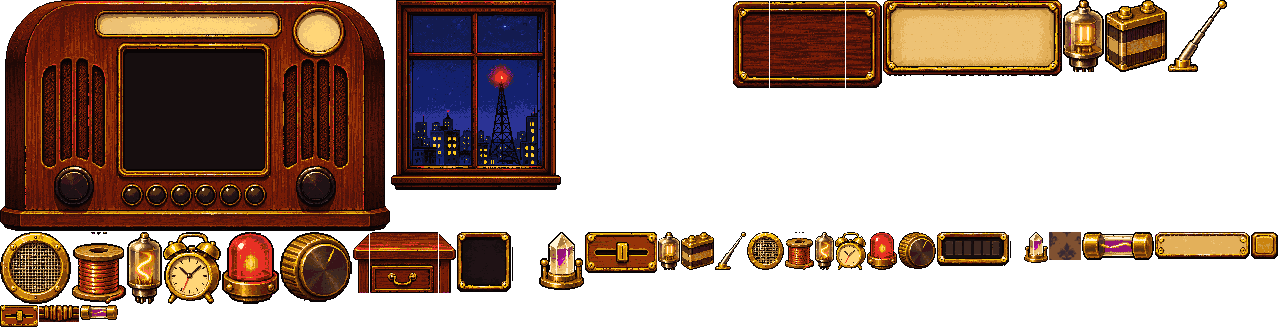
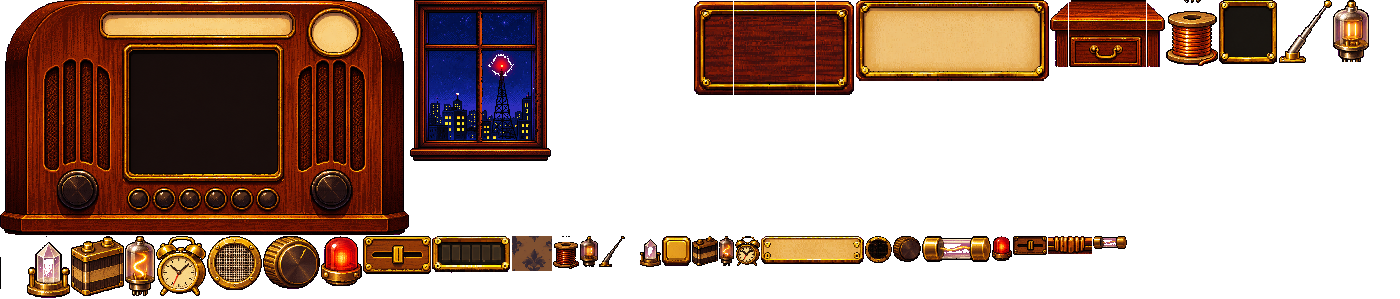
Art at its true pixel size (grid-fixed sources, no resizing), world 712x400, smooth darker lighting, clearer value dots
Claude-Session: https://claude.ai/code/session_01GgKVUEWXsHRvrCRcmJ6uSs

diff --git a/index.html b/index.html
@@ -168,9 +168,9 @@ body.padmode #screenWrap,body.inapp #screenWrap{position:fixed;top:0;right:0;bot
 const $ = (id) => document.getElementById(id);
 const DICT = new Set((window.LEX_WORDS || "").split(" "));
 const cv = $("screen"), ctx = cv.getContext("2d");          // the screen: 2 fine pixels per world pixel
-const H = 360, BAR_H = 101, SCENE_H = H - BAR_H, FINE = 2;
-const BIN = { t: 11, b: 11, l: 13, r: 13 };                  // the bar's inner gold border: everything sits inside it
-let W = 640, TK = 1;   // TK: text scale, 1.5 when the screen is small (phones) so typed text stays readable
+const H = 400, BAR_H = 95, SCENE_H = H - BAR_H, FINE = 2;
+const BIN = { t: 12, b: 12, l: 14, r: 14 };                  // the bar's inner gold border: everything sits inside it
+let W = 712, TK = 1;   // TK: text scale, 1.5 when the screen is small (phones) so typed text stays readable
 const world = document.createElement("canvas"), wctx = world.getContext("2d");   // the room, keys and bar, in world pixels
 const over = document.createElement("canvas"), octx = over.getContext("2d");     // menus over the room, in world pixels
 
@@ -288,31 +288,32 @@ const L = {};
 function layout() {
   if (!A) return;
   const wrapEl = $("screenWrap"); const ww = wrapEl.clientWidth || 640, wh = wrapEl.clientHeight || 360;
-  const nW = Math.max(480, Math.min(854, Math.round(H * ww / wh / 2) * 2));
+  const nW = Math.max(532, Math.min(950, Math.round(H * ww / wh / 2) * 2));
   const nTK = ww / nW < 1.15 ? 1.5 : 1; if (nTK !== TK) { TK = nTK; glyphCache.clear(); ADV.ink = 12 * TK; }
   if (nW !== W || !L.ready) { W = nW; world.width = W; world.height = H; over.width = W; over.height = H; cv.width = W * FINE; cv.height = H * FINE;
     computeLayout(); buildRoom(); buildBar(); L.ready = true; }
 }
 function computeLayout() {
-  const rw = R("radio")[2], wide = W >= 587;
+  const rw = R("radio")[2], wide = W >= 650;
   L.radioX = wide ? W - rw - 21 : W - rw - 5; L.radioY = 18;
-  L.winX = wide ? Math.max(18, Math.round((L.radioX - R("window")[2]) / 2)) : L.radioX - R("window")[2] + 10; L.winY = 24;
+  L.winX = wide ? Math.max(18, Math.round((L.radioX - R("window")[2]) / 2)) : L.radioX - R("window")[2] + 10; L.winY = 46;
   const bp = P("window").beacon; L.beacon = { x: L.winX + bp[0], y: L.winY + bp[1] };
   const rp = P("radio");
   L.glass = { x: L.radioX + rp.glass0[0], y: L.radioY + rp.glass0[1], w: rp.glass1[0] - rp.glass0[0], h: rp.glass1[1] - rp.glass0[1] };
-  L.tw = 31; L.th = 25; L.gap = 4;
+  L.gap = 4; L.tw = Math.floor((L.glass.w - 10 - 3 * L.gap) / 4); L.th = Math.floor((L.glass.h - 10 - 3 * L.gap) / 4);
   L.gx = L.glass.x + Math.floor((L.glass.w - (4 * L.tw + 3 * L.gap)) / 2); L.gy = L.glass.y + Math.floor((L.glass.h - (4 * L.th + 3 * L.gap)) / 2);
   L.dial = { x: L.radioX + rp.dial0[0] + 1, y: L.radioY + rp.dial0[1] + 1, w: rp.dial1[0] - rp.dial0[0] - 2, h: rp.dial1[1] - rp.dial0[1] - 2 };
   L.meter = { x: L.radioX + rp.meter[0], y: L.radioY + rp.meter[1], r: rp.meterR[0] - rp.meter[0] };
   L.lamps = [0, 1, 2, 3, 4, 5].map(k => ({ x: L.radioX + rp["lamp" + k][0], y: L.radioY + rp["lamp" + k][1] }));
   L.knobL = { x: L.radioX + rp.knobL[0], y: L.radioY + rp.knobL[1] }; L.knobR = { x: L.radioX + rp.knobR[0], y: L.radioY + rp.knobR[1] };
-  L.sbX = L.radioX - 29; L.sbY = 237;
+  L.sbX = L.radioX - 29; L.sbY = L.radioY + R("radio")[3] - 10;
   // the bar: log | two plates | battery | part slots; one gap, all centred on the bar's middle line, inside the gold border
-  L.barY = SCENE_H; const n = W >= 627 ? 4 : W >= 560 ? 3 : 2; L.nSlots = n;
+  L.barY = SCENE_H;
   const [, , pw, ph] = R("plate"), [, , bw, bh] = R("battery"), [, , sw, sh] = R("slot");
   const GAP = 9, ix0 = BIN.l + 4, ix1 = W - BIN.r - 4, mid = (BIN.t + BAR_H - BIN.b) / 2;
+  let n = 4; while (n > 2 && ix1 - ix0 - (n * sw + (n - 1) * GAP) - pw - bw - 3 * GAP < 160) n--; L.nSlots = n;
   L.logW = ix1 - ix0 - (n * sw + (n - 1) * GAP) - pw - bw - 3 * GAP;
-  L.log = { x: ix0, y: Math.round(mid - 31), w: L.logW, h: 62 };
+  L.log = { x: ix0, y: Math.round(mid - 33), w: L.logW, h: 66 };
   L.plateX = ix0 + L.logW + GAP; L.battX = L.plateX + pw + GAP; L.slotX = L.battX + bw + GAP; L.slotStep = sw + GAP;
   L.plateY0 = Math.round(mid - ph - 4); L.plateY1 = Math.round(mid + 4); L.battY = Math.round(mid - bh / 2); L.slotY = Math.round(mid - sh / 2);
 }
@@ -331,21 +332,20 @@ function buildRoom() {
   const m = document.createElement("canvas"); m.width = W; m.height = SCENE_H; const mc = m.getContext("2d"); spr(mc, "window_glass", L.winX, L.winY);
   mc.globalCompositeOperation = "destination-out"; spr(mc, "radio", L.radioX, L.radioY);
   const md = mc.getImageData(0, 0, W, SCENE_H).data;
-  const wcx = L.winX + R("window")[2] / 2, wcy = L.winY + R("window")[3] / 2, lx = W - 13, ly = 267, K = 4 / 3;
+  const wcx = L.winX + R("window")[2] / 2, wcy = L.winY + R("window")[3] / 2, lx = W - 13, ly = SCENE_H * .87, K = H / 270;
+  // smooth light over the clean art: warm lamp low right, cool moon round the window, slightly darker edges (no palette snapping)
   for (let y = 0; y < SCENE_H; y++) for (let x = 0; x < W; x++) {
     const i = (y * W + x) * 4; let lr, lg, lb;
-    if (md[i + 3] > 0) { lr = .72; lg = .74; lb = .84; }
+    if (md[i + 3] > 0) { lr = .74; lg = .76; lb = .86; }
     else { const lamp = Math.max(0, 1 - Math.hypot((x - lx) / (330 * K), (y - ly) / (260 * K))) ** 1.6, moon = Math.max(0, 1 - Math.hypot((x - wcx) / (150 * K), (y - wcy) / (130 * K))) ** 2;
-      const v = 1 - .25 * Math.max(0, Math.min(1, Math.hypot((x - W / 2) / (W / 2), (y - H / 2) / (H / 2)) - .6));
-      lr = (.56 + lamp * 1.1 + moon * .26) * v; lg = (.54 + lamp * .84 + moon * .34) * v; lb = (.52 + lamp * .55 + moon * .56) * v; }
-    const th = (BAYER[(y & 3) * 4 + (x & 3)] / 16 - .5) * 22;
-    const r = Math.max(0, Math.min(255, d[i] * lr + th)), g = Math.max(0, Math.min(255, d[i + 1] * lg + th)), b = Math.max(0, Math.min(255, d[i + 2] * lb + th));
-    const k = (((r >> 3) * 32 + (g >> 3)) * 32 + (b >> 3)) * 3; d[i] = LUT[k]; d[i + 1] = LUT[k + 1]; d[i + 2] = LUT[k + 2]; d[i + 3] = 255; }
+      const v = 1 - .35 * Math.max(0, Math.min(1, Math.hypot((x - W / 2) / (W / 2), (y - H / 2) / (H / 2)) - .55));
+      lr = (.44 + lamp * 1.0 + moon * .22) * v; lg = (.43 + lamp * .74 + moon * .3) * v; lb = (.44 + lamp * .48 + moon * .5) * v; }
+    d[i] = Math.min(255, d[i] * lr); d[i + 1] = Math.min(255, d[i + 1] * lg); d[i + 2] = Math.min(255, d[i + 2] * lb); d[i + 3] = 255; }
   c.putImageData(img, 0, 0);
 }
 function buildBar() {
   barCv = document.createElement("canvas"); barCv.width = W; barCv.height = BAR_H; const c = barCv.getContext("2d"); c.imageSmoothingEnabled = false;
-  const SRC_H = R("bar_left")[3], TOP = 29, BOT = 29, MID = SRC_H - TOP - BOT;
+  const SRC_H = R("bar_left")[3], TOP = 31, BOT = 31, MID = SRC_H - TOP - BOT;
   const piece = (n, x, w) => { spr(c, n, x, 0, 0, 0, w, TOP); for (let y = TOP; y < BAR_H - BOT; y += MID) spr(c, n, x, y, 0, TOP, w, Math.min(MID, BAR_H - BOT - y)); spr(c, n, x, BAR_H - BOT, 0, SRC_H - BOT, w, BOT); };
   piece("bar_left", 0, R("bar_left")[2]); let x = R("bar_left")[2]; const rw = R("bar_right")[2];
   while (x < W - rw) { const mw = Math.min(R("bar_mid")[2], W - rw - x); piece("bar_mid", x, mw); x += mw; }
@@ -543,7 +543,7 @@ function drawGrid() {
     wctx.fillStyle = on ? (ok ? C.hot : C.selEdge) : C.keyEdge; wctx.fillRect(x, y, L.tw, 1); wctx.fillRect(x, y + L.th - 1, L.tw, 1); wctx.fillRect(x, y, 1, L.th); wctx.fillRect(x + L.tw - 1, y, 1, L.th);
     wctx.fillStyle = on ? C.hot : C.keyTop; wctx.fillRect(x + 1, y + 1, L.tw - 2, 1);
     if (t.hot) { wctx.fillStyle = (frame >> 3) & 1 ? C.red : C.redHot; wctx.fillRect(x - 1, y - 1, L.tw + 2, 1); wctx.fillRect(x - 1, y + L.th, L.tw + 2, 1); wctx.fillRect(x - 1, y, 1, L.th); wctx.fillRect(x + L.tw, y, 1, L.th); }
-    const v = VALUES[t.ch]; wctx.fillStyle = on ? C.ink : C.keyEdge; for (let k = 0; k < Math.min(4, Math.ceil(v / 2)); k++) wctx.fillRect(x + L.tw - 4 - k * 3, y + L.th - 4, 2, 2);
+    const v = VALUES[t.ch]; for (let k = 0; k < Math.min(4, Math.ceil(v / 2)); k++) { wctx.fillStyle = C.keyShadow; wctx.fillRect(x + L.tw - 4 - k * 3, y + L.th - 3, 2, 2); wctx.fillStyle = on ? C.ink : C.gold; wctx.fillRect(x + L.tw - 4 - k * 3, y + L.th - 4, 2, 2); }
   }
   if (KS === 0) for (let k = 1; k < S.path.length; k++) { const a = tileC(S.path[k - 1]), b = tileC(S.path[k]); line(wctx, a.x, a.y, b.x, b.y, ok ? C.hot : C.gold, 2); }
   const cand = candidate(); if (cand >= 0 && !usingButtons && KS === 0) { const p = tileXY(cand); wctx.fillStyle = C.gold; wctx.fillRect(p.x - 1, p.y - 1, L.tw + 2, 1); wctx.fillRect(p.x - 1, p.y + L.th, L.tw + 2, 1); wctx.fillRect(p.x - 1, p.y, 1, L.th); wctx.fillRect(p.x + L.tw, p.y, 1, L.th);
@@ -641,7 +641,7 @@ function drawKeyLetters() {
       ctx.fillStyle = gr; ctx.beginPath(); ctx.arc(cx, cy, r - 4, 0, 7); ctx.fill();
       if (on) { ctx.shadowColor = "#ffb347"; ctx.shadowBlur = 18; ctx.strokeStyle = "rgba(255,200,110,.9)"; ctx.lineWidth = 2; ctx.stroke(); ctx.shadowBlur = 0; }
       vtext(ch, cx, cy + 2, `${ch === "Qu" ? 22 : 28}px "Special Elite", "Courier New", monospace`, "#2a1a0e");
-      pips(cx + r - 10, cy + r - 12, v, "#7a5228");
+      pips(cx + r - 10, cy + r - 12, v, "#4a2a12");
     } else if (KS === 2) {     // glow tubes: dark glass with a fine mesh, thin orange letters burning inside
       ctx.fillStyle = "#0e0806"; rr(ctx, x + 2, y, w - 4, hh, 10); ctx.fill();
       ctx.fillStyle = "rgba(255,140,60,.07)"; for (let yy = y + 3; yy < y + hh - 2; yy += 4) for (let xx = x + 5 + ((yy >> 2) & 1) * 2; xx < x + w - 5; xx += 4) ctx.fillRect(xx, yy, 1, 1);
@@ -650,13 +650,13 @@ function drawKeyLetters() {
       ctx.lineWidth = 2.2; ctx.strokeStyle = lit; ctx.strokeText(ch, cx, cy + 2);   // thicken the filament so it reads
       ctx.strokeStyle = "rgba(255,255,255,.12)"; ctx.lineWidth = 2; ctx.beginPath(); ctx.moveTo(x + 9, y + 6); ctx.lineTo(x + 9, y + hh - 10); ctx.stroke();
       ctx.strokeStyle = on ? "rgba(255,180,90,.8)" : "rgba(120,80,50,.6)"; ctx.lineWidth = 2; rr(ctx, x + 2, y, w - 4, hh, 10); ctx.stroke();
-      pips(x + w - 10, y + hh - 9, v, on ? "#ffd0a0" : "#7a3a14");
+      pips(x + w - 10, y + hh - 9, v, on ? "#ffd0a0" : "#ffa24a");
     } else if (KS === 3) {     // neon glass: no keys, glowing letters floating in the smoked glass
       ctx.strokeStyle = on ? "rgba(255,190,110,.55)" : "rgba(255,170,90,.12)"; ctx.lineWidth = 2; rr(ctx, x + 3, y + 2, w - 6, hh - 4, 8); ctx.stroke();
       const col = on ? (ok ? "#ffffff" : "#fff1d6") : "#ffb347";
       vtext(ch, cx, cy + 2, `${ch === "Qu" ? 22 : 30}px Bungee, Impact, sans-serif`, col, on ? 26 : 14, on ? "#ffcf6a" : "#ff8a20");
       vtext(ch, cx, cy + 2, `${ch === "Qu" ? 22 : 30}px Bungee, Impact, sans-serif`, col, 0);
-      pips(x + w - 10, y + hh - 10, v, on ? "#fff1d6" : "rgba(255,170,80,.55)");
+      pips(x + w - 10, y + hh - 10, v, on ? "#fff1d6" : "#ffc070");
     } else if (KS === 4) {     // ivory tiles: chunky game tiles with engraved letters
       ctx.fillStyle = "rgba(0,0,0,.5)"; rr(ctx, x + 2, y + 4, w - 2, hh - 2, 7); ctx.fill();
       let gr = ctx.createLinearGradient(0, y, 0, y + hh); gr.addColorStop(0, on ? (ok ? "#fff2c4" : "#ffd88a") : "#f3e7c9"); gr.addColorStop(1, on ? (ok ? "#ffbf4a" : "#e9a23c") : "#cdb98f");
@@ -664,7 +664,7 @@ function drawKeyLetters() {
       ctx.strokeStyle = "rgba(255,255,255,.55)"; ctx.lineWidth = 2; ctx.beginPath(); ctx.moveTo(x + 7, y + 2); ctx.lineTo(x + w - 9, y + 2); ctx.stroke();
       if (on) { ctx.shadowColor = "#ffb347"; ctx.shadowBlur = 20; ctx.strokeStyle = "rgba(255,190,90,.9)"; rr(ctx, x + 1, y, w - 3, hh - 3, 7); ctx.stroke(); ctx.shadowBlur = 0; }
       vtext(ch, cx, cy + 1, `${ch === "Qu" ? 20 : 26}px Bungee, Impact, sans-serif`, "rgba(255,255,255,.6)"); vtext(ch, cx, cy - 1, `${ch === "Qu" ? 20 : 26}px Bungee, Impact, sans-serif`, "#3a2010");
-      pips(x + w - 11, y + hh - 11, v, "#a8452a");
+      pips(x + w - 11, y + hh - 11, v, "#8a2410");
     } else if (KS === 5) {     // brass keys: polished brass plates with stamped letters
       ctx.fillStyle = "rgba(0,0,0,.5)"; rr(ctx, x + 2, y + 4, w - 2, hh - 2, 5); ctx.fill();
       let gr = ctx.createLinearGradient(x, y, x + w, y + hh); gr.addColorStop(0, on ? "#fff0b0" : "#f0cf78"); gr.addColorStop(.5, on ? "#ffc848" : "#c69a42"); gr.addColorStop(1, on ? "#d48a20" : "#8a5f22");
@@ -672,7 +672,7 @@ function drawKeyLetters() {
       ctx.strokeStyle = "rgba(60,36,12,.7)"; ctx.lineWidth = 2; rr(ctx, x + 5, y + 4, w - 11, hh - 11, 3); ctx.stroke();
       if (on) { ctx.shadowColor = "#ffd27a"; ctx.shadowBlur = 22; ctx.strokeStyle = ok ? "#fff6dc" : "#ffd27a"; rr(ctx, x + 1, y, w - 3, hh - 3, 5); ctx.stroke(); ctx.shadowBlur = 0; }
       vtext(ch, cx, cy + 1, `${ch === "Qu" ? 20 : 27}px Limelight, Georgia, serif`, "rgba(255,240,200,.7)"); vtext(ch, cx, cy - 1, `${ch === "Qu" ? 20 : 27}px Limelight, Georgia, serif`, "#3a2410");
-      pips(x + w - 11, y + hh - 12, v, "#5a3a14");
+      pips(x + w - 11, y + hh - 12, v, "#2e1a08");
     }
     if (t.hot) { ctx.strokeStyle = (frame >> 3) & 1 ? "#ff3a2e" : "#ff8060"; ctx.lineWidth = 3; ctx.shadowColor = "#ff3a2e"; ctx.shadowBlur = 14; rr(ctx, x - 1, y - 2, w + 1, hh + 2, 9); ctx.stroke(); ctx.shadowBlur = 0; }
     if (hv) { ctx.strokeStyle = "rgba(255,230,170,.85)"; ctx.lineWidth = 2; ctx.setLineDash([6, 4]); rr(ctx, x - 2, y - 3, w + 3, hh + 4, 9); ctx.stroke(); ctx.setLineDash([]); }

diff --git a/art/pixel/build.py b/art/pixel/build.py
@@ -1,7 +1,12 @@
-"""Builds every pixel-art sprite from the ChatGPT sources in art/pixel/src/.
-1. Master palette (64 colours) from the look target and all sources, so every layer shares the same colours.
-2. Each sprite: key out magenta, crop, shrink to its native size (the game's 480x270 world), hard 1-bit alpha, snap to the palette.
-3. sprites.json: sizes plus marked points (like the tower beacon) in native pixels.
+"""Builds every pixel-art sprite for the game from the art in art/pixel/src/.
+
+ChatGPT's "pixel art" is a big image of fake pixels of uneven size. Each source was run once through a pixel-grid fixer, which
+recovered its real pixel grid; that result is saved next to it as NAME_fixed.png. Sprites are cut from the fixed images at exactly
+their own pixel size: never resized, never forced into a small palette, so every pixel stays clean. (The interface kit came back
+with tall pixels, so its rows are evened out to square pixels first.)
+
+Crops and points below are written in the ORIGINAL source's pixels (easy to measure on the big image) and converted to the fixed
+image's pixels. Outputs: atlas.png + atlas.json (palette for interface colours, sprite rectangles, marked points).
 Run from the repo root: python3 -I art/pixel/build.py"""
 import json, sys
 import numpy as np
@@ -11,125 +16,93 @@ import pix
 
 SRC = "art/pixel/src/"
 OUT = "art/pixel/"
-# name: source file, native width (height follows), points of interest in source pixels (found by eye / measured)
+SQUARE = {"uikit": 3.197}     # sources whose fixed rows need evening out: real pixel size in source px (both axes)
 SPRITES = {
-    "window": {"src": "window.png", "w": 170, "points": {"beacon": (648, 574)}},
-    "radio": {"src": "radio.png", "w": 390, "points": {
+    "window": {"src": "window", "points": {"beacon": (648, 574)}},
+    "radio": {"src": "radio", "points": {
         "glass0": (552, 214), "glass1": (1102, 688), "dial0": (462, 84), "dial1": (1148, 150), "meter": (1312, 146), "meterR": (1392, 146),
         "lamp0": (583, 783), "lamp1": (678, 783), "lamp2": (773, 783), "lamp3": (868, 783), "lamp4": (963, 783), "lamp5": (1062, 783),
         "knobL": (358, 745), "knobR": (1300, 745)}},
-    # the sideboard is cut into a left end, one repeating drawer bay and a right end, so it stretches to any width
-    "sb_left": {"src": "sideboard.png", "scale": .267, "crop": (12, 360, 72, 589)},
-    "sb_mid": {"src": "sideboard.png", "scale": .267, "crop": (72, 360, 327, 589)},
-    "sb_right": {"src": "sideboard.png", "scale": .267, "crop": (1585, 360, 1647, 589)},
-    # interface kit (one scale for every piece): the bar stretches (left end, plain middle, right end) with the clasp centred on top
-    "bar_left": {"src": "uikit.png", "scale": .289, "crop": (14, 112, 138, 416)},
-    "bar_mid": {"src": "uikit.png", "scale": .289, "crop": (300, 112, 558, 416)},
-    "bar_right": {"src": "uikit.png", "scale": .289, "crop": (1524, 112, 1648, 416)},
-    "bar_clasp": {"src": "uikit.png", "scale": .289, "crop": (762, 112, 900, 170)},
-    "logbox": {"src": "uikit.png", "scale": .289, "crop": (24, 538, 642, 800)},
-    "plate": {"src": "uikit.png", "scale": .289, "crop": (674, 554, 1004, 646)},
-    "battery": {"src": "uikit.png", "scale": .289, "crop": (1040, 602, 1290, 720), "points": {"seg0": (1066, 632), "seg1": (1266, 690)}},
-    "slot": {"src": "uikit.png", "scale": .289, "crop": (1320, 554, 1508, 760)},
-    "button": {"src": "uikit.png", "scale": .289, "crop": (1540, 610, 1634, 704)},
+    # the sideboard is a left end, one repeating drawer bay and a right end, so it stretches to any width
+    "sb_left": {"src": "sideboard", "crop": (12, 360, 72, 589)},
+    "sb_mid": {"src": "sideboard", "crop": (72, 360, 327, 589)},
+    "sb_right": {"src": "sideboard", "crop": (1585, 360, 1647, 589)},
+    # interface kit: the bar stretches (left end, plain middle, right end) with the clasp centred on top
+    "bar_left": {"src": "uikit", "crop": (14, 112, 138, 416)},
+    "bar_mid": {"src": "uikit", "crop": (300, 112, 558, 416)},
+    "bar_right": {"src": "uikit", "crop": (1524, 112, 1648, 416)},
+    "bar_clasp": {"src": "uikit", "crop": (762, 112, 900, 170)},
+    "logbox": {"src": "uikit", "crop": (24, 538, 642, 800)},
+    "plate": {"src": "uikit", "crop": (674, 554, 1004, 646)},
+    "battery": {"src": "uikit", "crop": (1040, 602, 1290, 720), "points": {"seg0": (1066, 632), "seg1": (1266, 690)}},
+    "slot": {"src": "uikit", "crop": (1320, 554, 1508, 760)},
+    "button": {"src": "uikit", "crop": (1540, 610, 1634, 704)},
 }
-TILES = {"wall_tile": {"src": "wallpaper.png", "period": (156, 138), "native": (32, 28), "area": (150, 160)}}
+WALL = {"src": "wallpaper.png", "period": (156, 138), "px": 3.9, "area": (150, 160)}
+ICON_NAMES = ["amp", "battery", "vowel", "filter", "coil", "echo", "owl", "knob", "treble", "short", "carrier", "fuse"]
 
-def keyed(path):
-    a = np.asarray(Image.open(path).convert("RGB")).astype(float)
-    r, g, b = a[..., 0], a[..., 1], a[..., 2]
-    alpha = (np.minimum(r, b) - g) < 110          # not magenta
-    ys, xs = np.where(alpha)
-    box = (xs.min(), ys.min(), xs.max() + 1, ys.max() + 1)
-    return a, alpha, box
+def magenta(rgb):
+    r, g, b = rgb[..., 0].astype(int), rgb[..., 1].astype(int), rgb[..., 2].astype(int)
+    return ((np.minimum(r, b) - g) > 110) | ((np.minimum(r, b) - g > 45) & (b > r * .55) & (b > 90))   # incl. pink edge blends
+
+def fixed(name):
+    """The fixed image as RGBA (magenta keyed out) and the scale from source pixels to fixed pixels."""
+    src = Image.open(SRC + name + ".png"); im = Image.open(SRC + name + "_fixed.png").convert("RGBA")
+    if name in SQUARE:
+        im = im.resize((im.width, round(src.height / SQUARE[name])), Image.NEAREST)
+    a = np.asarray(im).copy(); a[..., 3] = np.where(magenta(a[..., :3]) | (a[..., 3] < 128), 0, 255)
+    return Image.fromarray(a, "RGBA"), im.width / src.width, im.height / src.height
 
 def main():
-    sources = [("art/concept/look-target.png", (480, 274)), (SRC + "wallpaper.png", (240, 137))]
-    for s in SPRITES.values():
-        a, alpha, (x0, y0, x1, y1) = keyed(SRC + s["src"])
-        sources.append((SRC + s["src"], (max(8, (x1 - x0) // 8), max(8, (y1 - y0) // 8))))
-    pal = pix.build_palette(sources, 64)
-    meta = {"palette": pal.tolist(), "sprites": {}}
-    for name, t in TILES.items():
-        a = np.asarray(Image.open(SRC + t["src"]).convert("RGB")).astype(float)
-        PX, PY = t["period"]; X0, Y0 = t["area"]
-        reps = [a[y:y + PY, x:x + PX] for y in range(Y0, a.shape[0] - PY - 20, PY) for x in range(X0, a.shape[1] - PX - 20, PX)]
-        tile = np.median(np.stack(reps), 0)
-        small = np.asarray(Image.fromarray(tile.astype("uint8")).resize(t["native"], Image.BOX)).astype(float)
-        Image.fromarray(pix.snap(small, pal)).save(OUT + name + ".png")
-        meta["sprites"][name] = {"w": t["native"][0], "h": t["native"][1], "tile": True}
+    imgs, pts = {}, {}
+    cache = {}
     for name, s in SPRITES.items():
-        a, alpha, (x0, y0, x1, y1) = keyed(SRC + s["src"])
-        if "crop" in s: x0, y0, x1, y1 = s["crop"]
-        W = s["w"] if "w" in s else round((x1 - x0) * s["scale"])
-        H = round(W * (y1 - y0) / (x1 - x0)) if "w" in s else round((y1 - y0) * s["scale"])
-        crop = a[y0:y1, x0:x1]; al = alpha[y0:y1, x0:x1]
-        Image.fromarray(pix.mode_shrink(crop, al, W, H, pal), "RGBA").save(OUT + name + ".png")
-        sx, sy = W / (x1 - x0), H / (y1 - y0)
-        pts = {k: [round((px - x0) * sx), round((py - y0) * sy)] for k, (px, py) in s.get("points", {}).items()}
-        meta["sprites"][name] = {"w": W, "h": H, "points": pts}
-    json.dump(meta, open(OUT + "sprites.json", "w"), indent=1)
-    print(json.dumps({k: v for k, v in meta["sprites"].items()}))
-
-main()
-
-# ---------------- icons, fonts and the atlas the game loads ----------------
-from PIL import ImageDraw, ImageFont
-ICON_NAMES = ["amp", "battery", "vowel", "filter", "coil", "echo", "owl", "knob", "treble", "short", "carrier", "fuse"]
-FONTS = {"small": ("/usr/share/fonts/truetype/dejavu/DejaVuSansMono-Bold.ttf", 8),
-         "big": ("/usr/share/fonts/truetype/dejavu/DejaVuSans-Bold.ttf", 14)}
-CHARS = "".join(chr(c) for c in range(32, 96)) + "u"
-
-def icons(pal):
-    a, alpha, _ = keyed(SRC + "icons.png")
-    Hh, Ww = alpha.shape; out = {}
-    for k, name in enumerate(ICON_NAMES):
-        cx0, cy0 = (k % 4) * Ww // 4, (k // 4) * Hh // 3
-        al = alpha[cy0:cy0 + Hh // 3, cx0:cx0 + Ww // 4]; ys, xs = np.where(al)
-        x0, x1, y0, y1 = cx0 + xs.min(), cx0 + xs.max() + 1, cy0 + ys.min(), cy0 + ys.max() + 1
-        for tag, size in (("icon_", 38), ("iconL_", 72)):
-            s = size / max(x1 - x0, y1 - y0); W, H = max(1, round((x1 - x0) * s)), max(1, round((y1 - y0) * s))
-            out[tag + name] = Image.fromarray(pix.mode_shrink(a[y0:y1, x0:x1], alpha[y0:y1, x0:x1], W, H, pal), "RGBA")
-    return out
-
-def glyphs():
-    out, metrics = {}, {}
-    for fname, (path, size) in FONTS.items():
-        f = ImageFont.truetype(path, size); asc, desc = f.getmetrics(); h = asc + desc
-        metrics[fname] = {"h": h, "adv": {}}
-        for ch in CHARS:
-            key = "Qu" if ch == "u" else ch
-            if ch == "u" and fname != "big": continue
-            txt = "Qu" if ch == "u" else ch
-            w = max(1, int(round(f.getlength(txt))))
-            im = Image.new("L", (w + 2, h + 2), 0); d = ImageDraw.Draw(im); d.fontmode = "1"; d.text((1, 1), txt, font=f, fill=255)
-            rgba = Image.new("RGBA", im.size, (255, 255, 255, 0)); rgba.putalpha(im.point(lambda v: 255 if v > 127 else 0))
-            out[f"g_{fname}_{ord(ch) if key != 'Qu' else 'Qu'}"] = rgba; metrics[fname]["adv"][key] = w
-    return out, metrics
-
-def atlas(meta, pal):
-    imgs = {n: Image.open(OUT + n + ".png").convert("RGBA") for n in meta["sprites"]}
-    # the window glass mask: which window pixels give their own light (the night view), so room light skips them
+        if s["src"] not in cache: cache[s["src"]] = fixed(s["src"])
+        im, fx, fy = cache[s["src"]]
+        if "crop" in s:
+            x0, y0, x1, y1 = s["crop"]; box = (round(x0 * fx), round(y0 * fy), round(x1 * fx), round(y1 * fy))
+        else:
+            box = im.getbbox()
+        piece = im.crop(box)
+        if "crop" not in s: x0, y0 = box[0] / fx, box[1] / fy
+        imgs[name] = piece
+        pts[name] = {k: [round(px * fx - box[0]), round(py * fy - box[1])] for k, (px, py) in s.get("points", {}).items()}
+    # wallpaper: the median of many repeats (removes the source's uneven edges), one cell per real pixel
+    a = np.asarray(Image.open(SRC + WALL["src"]).convert("RGB")).astype(float)
+    PX, PY = WALL["period"]; X0, Y0 = WALL["area"]
+    tile = np.median(np.stack([a[y:y + PY, x:x + PX] for y in range(Y0, a.shape[0] - PY - 20, PY) for x in range(X0, a.shape[1] - PX - 20, PX)]), 0)
+    big = pix.kmeans(tile.reshape(-1, 3)[::3], 24)
+    imgs["wall_tile"] = Image.fromarray(pix.mode_shrink(tile, np.ones(tile.shape[:2], bool), round(PX / WALL["px"]), round(PY / WALL["px"]), big), "RGBA")
+    # the window glass: which window pixels are the night view (they give their own light, so room light skips them)
     win = np.asarray(imgs["window"]).astype(int); rgb = win[..., :3]
     seen = ((rgb[..., 2] > rgb[..., 0] + 10) | (rgb.max(-1) > 200)) & (win[..., 3] > 0); seen[:8] = seen[-14:] = False
     ys, xs = np.where(seen); inside = np.zeros_like(seen); inside[ys.min():ys.max() + 1, xs.min():xs.max() + 1] = True
-    wood = (rgb[..., 0] > rgb[..., 2] + 25) & (rgb[..., 0] > 60) & (rgb[..., 1] > rgb[..., 0] * .3) & ~(rgb.max(-1) > 200)   # frame bars, not lit windows or the red beacon
+    wood = (rgb[..., 0] > rgb[..., 2] + 25) & (rgb[..., 0] > 60) & (rgb[..., 1] > rgb[..., 0] * .3) & ~(rgb.max(-1) > 200)
     glass = inside & ~wood & (win[..., 3] > 0)
     imgs["window_glass"] = Image.fromarray(np.dstack([np.full(glass.shape + (3,), 255, np.uint8), glass.astype(np.uint8) * 255]), "RGBA")
-    imgs.update(icons(pal))
-    metrics = {}
-    # shelf packing
-    order = sorted(imgs, key=lambda n: -imgs[n].height); AW = 1280; x = y = sh = 0; rects = {}
+    # part icons: full size for the part picker, exactly half (2x2 cells, majority colour) for the bar's slots
+    ic, fx, fy = fixed("icons"); ia = np.asarray(ic); al = ia[..., 3] > 0; H, W = al.shape
+    for k, name in enumerate(ICON_NAMES):
+        cx0, cy0, cx1, cy1 = (k % 4) * W // 4, (k // 4) * H // 3, (k % 4 + 1) * W // 4, (k // 4 + 1) * H // 3
+        ys, xs = np.where(al[cy0:cy1, cx0:cx1]); box = (cx0 + xs.min(), cy0 + ys.min(), cx0 + xs.max() + 1, cy0 + ys.max() + 1)
+        full = ic.crop(box); imgs["iconL_" + name] = full
+        fa = np.asarray(full); hw, hh = max(1, fa.shape[1] // 2), max(1, fa.shape[0] // 2)
+        pal = np.unique(fa[..., :3][fa[..., 3] > 0].reshape(-1, 3), axis=0).astype(float)
+        imgs["icon_" + name] = Image.fromarray(pix.mode_shrink(fa[..., :3].astype(float), fa[..., 3] > 0, hw, hh, pal), "RGBA")
+    # interface colours are picked from a palette of the art itself
+    sample = np.concatenate([np.asarray(im)[..., :3][np.asarray(im)[..., 3] > 0].reshape(-1, 3) for im in imgs.values() if im.mode == "RGBA"])
+    pal = pix.kmeans(sample[::9].astype(float), 56); pal = np.concatenate([pal, np.array(pix.ACCENTS, float)]); pal = np.clip(np.round(pal[np.argsort(pal.mean(1))]), 0, 255).astype(int)
+    # pack
+    order = sorted(imgs, key=lambda n: -imgs[n].height); AW = 1400; x = y = sh = 0; rects = {}
     for n in order:
         w, h = imgs[n].size
         if x + w > AW: x = 0; y += sh + 1; sh = 0
         rects[n] = [x, y, w, h]; x += w + 1; sh = max(sh, h)
-    AH = y + sh + 1; sheet = Image.new("RGBA", (AW, AH), (0, 0, 0, 0))
-    for n, (x, y, w, h) in rects.items(): sheet.alpha_composite(imgs[n], (x, y))
+    sheet = Image.new("RGBA", (AW, y + sh + 1), (0, 0, 0, 0))
+    for n, (x, y, w, h) in rects.items(): sheet.alpha_composite(imgs[n].convert("RGBA"), (x, y))
     sheet.save(OUT + "atlas.png", optimize=True)
-    pts = {n: s.get("points", {}) for n, s in meta["sprites"].items()}
-    json.dump({"palette": meta["palette"], "accents": [list(c) for c in pix.ACCENTS], "rects": rects, "points": pts, "fonts": metrics},
-              open(OUT + "atlas.json", "w"))
-    print("atlas", AW, AH, len(rects), "pieces")
+    json.dump({"palette": pal.tolist(), "accents": [list(c) for c in pix.ACCENTS], "rects": rects, "points": pts, "fonts": {}}, open(OUT + "atlas.json", "w"))
+    for n in ["radio", "window", "wall_tile", "sb_mid", "bar_left", "bar_mid", "logbox", "plate", "battery", "slot", "iconL_amp", "icon_amp"]: print(n, rects[n][2:])
+    print("radio points", pts["radio"]); print("window", pts["window"], "battery", pts["battery"])
 
-atlas(json.load(open(OUT + "sprites.json")), np.array(json.load(open(OUT + "sprites.json"))["palette"], float))
+main()
